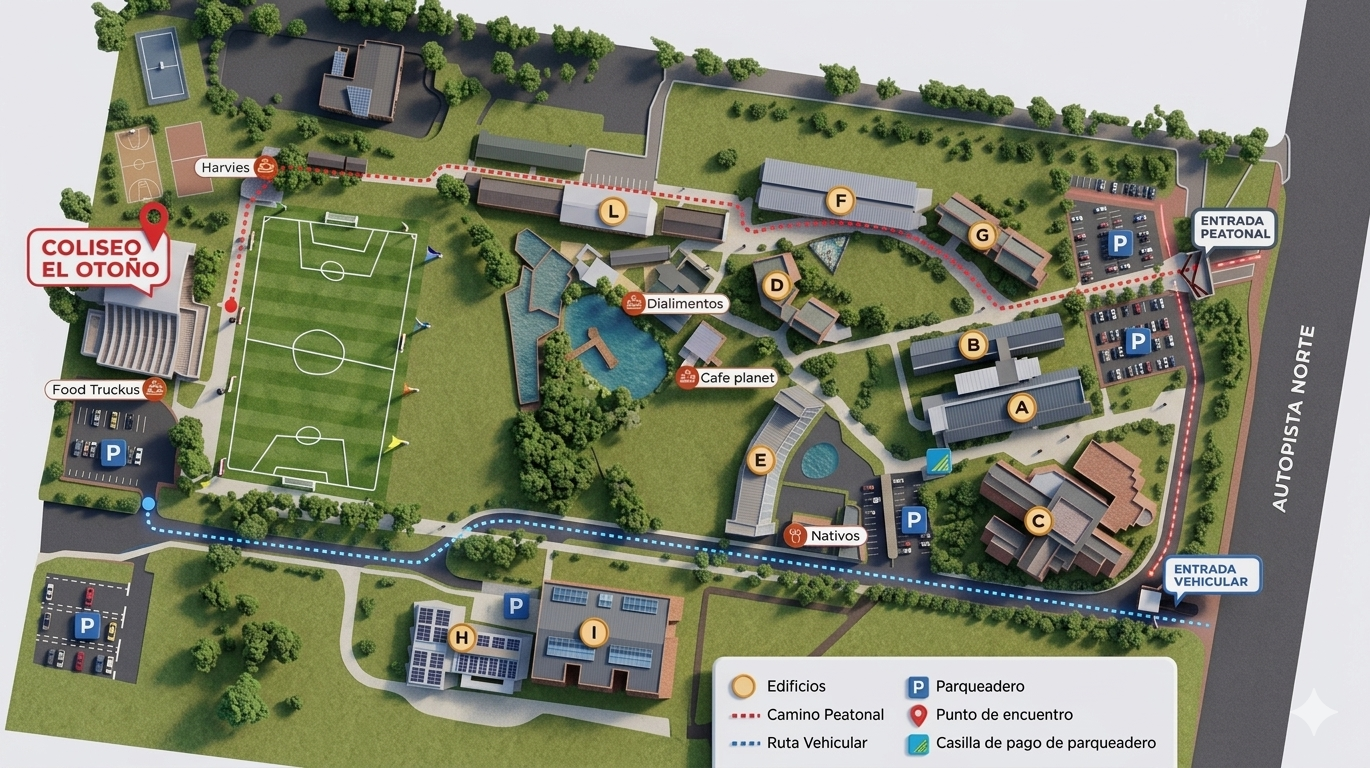
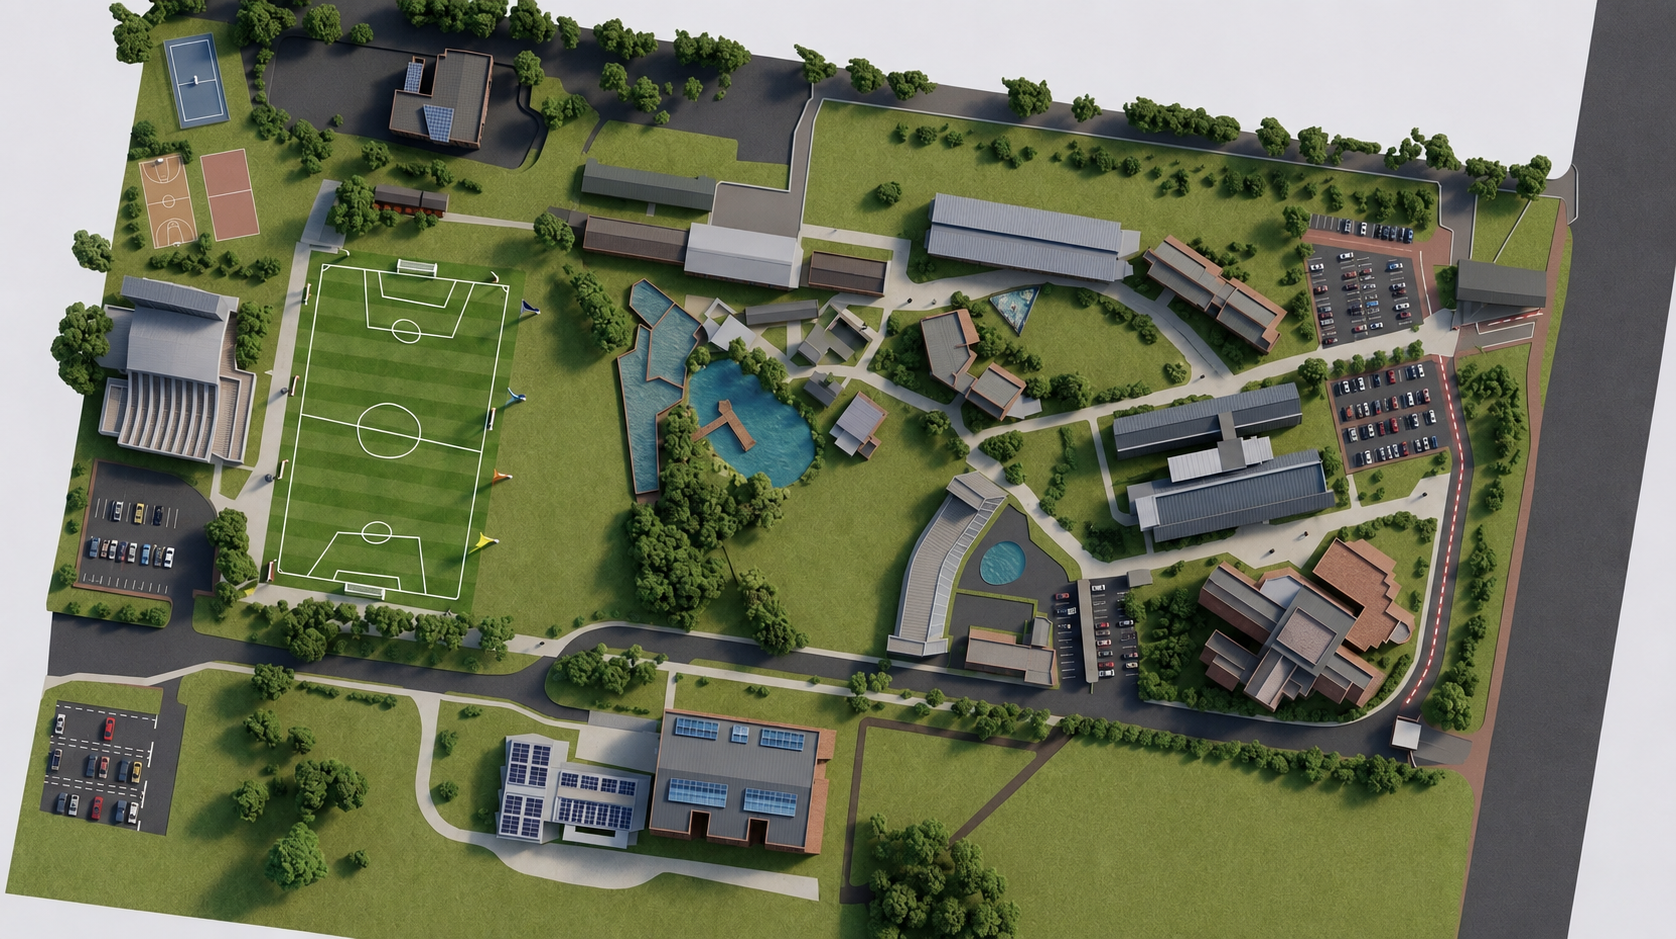
Cambio de imgane, color de edificios y ubicaion de edifiicos

Changed region(s): [[0.0, 0.0, 0.9504, 1.0], [0.2759, 0.9375, 0.3985, 1.0], [0.9504, 0.4375, 0.981, 0.4688]]

diff --git a/src/pages/CampusMapPage.tsx b/src/pages/CampusMapPage.tsx
@@ -66,7 +66,7 @@ function detectZone(mapX: number, mapY: number, landmarks: Landmark[]): string {
 const LANDMARKS: Landmark[] = [
   { id: 'bloque-a', name: 'Bloque A',           shortName: 'A',       x: 75, y: 46, Icon: Building2,      color: '#3B82F6', type: 'building' },
   { id: 'bloque-b', name: 'Bloque B',           shortName: 'B',       x: 70, y: 36, Icon: Building2,      color: '#3B82F6', type: 'building' },
-  { id: 'bloque-c', name: 'Bloque C',           shortName: 'C',       x: 72, y: 54, Icon: Building2,      color: '#3B82F6', type: 'building' },
+  { id: 'bloque-c', name: 'Bloque C',           shortName: 'C',       x: 76.9, y: 68.7, Icon: Building2,      color: '#3B82F6', type: 'building' },
   { id: 'bloque-d', name: 'Bloque D',           shortName: 'D',       x: 52, y: 28, Icon: GraduationCap,  color: '#6366F1', type: 'building' },
   { id: 'bloque-e', name: 'Bloque E',           shortName: 'E',       x: 56, y: 46, Icon: Wrench,         color: '#0EA5E9', type: 'building' },
   { id: 'bloque-f', name: 'Bloque F',           shortName: 'F',       x: 63, y: 18, Icon: Monitor,        color: '#8B5CF6', type: 'building' },
@@ -248,13 +248,8 @@ export function CampusMapPage() {
   const getEventsAt = useCallback((lmId: string) =>
     mappedEvents.filter(e => EVENT_LOCATION[e.id] === lmId), [mappedEvents]);
   const hasEvent = (lmId: string) => getEventsAt(lmId).length > 0;
-  const isVisible = (lm: Landmark) => {
-    if (activeFilter === 'all')   return true;
-    if (activeFilter === 'food')  return lm.type === 'food';
-    if (activeFilter === 'sport') return lm.type === 'sport';
-    if (activeFilter === 'event') return hasEvent(lm.id);
-    return true;
-  };
+  // Show only buildings on the map; color indicates active events
+  const isVisible = (lm: Landmark) => lm.type === 'building';
   const handlePin = (lm: Landmark) => {
     setSelectedLandmark(prev => prev?.id === lm.id ? null : lm);
     setEventsOpen(false);
@@ -401,6 +396,13 @@ export function CampusMapPage() {
           const hasEv  = evHere.length > 0;
           const isSel  = selectedLandmark?.id === lm.id;
           const { Icon } = lm;
+          // choose pin background based on whether building has active events
+          // If has event -> orange (GOLD_GRADIENT). If no event -> blue.
+          const DEFAULT_BLUE = '#3B82F6';
+          const pinBg = hasEv ? GOLD_GRADIENT : DEFAULT_BLUE;
+          const pinBorder = isSel ? 'white' : 'rgba(255,255,255,0.8)';
+          const labelColor = hasEv ? GOLD_LIGHT : DEFAULT_BLUE;
+
           return (
             <button
               key={lm.id}
@@ -423,8 +425,8 @@ export function CampusMapPage() {
                 whileTap={{ scale: 0.9 }}
                 style={{ display: 'flex', flexDirection: 'column', alignItems: 'center', gap: 1 }}
               >
-                {hasEv ? (
-                  <div style={{ position: 'relative' }}>
+                <div style={{ position: 'relative' }}>
+                  {hasEv && (
                     <motion.div
                       animate={{ scale: [1, 1.55, 1], opacity: [0.55, 0, 0.55] }}
                       transition={{ duration: 2.2, repeat: Infinity }}
@@ -436,55 +438,38 @@ export function CampusMapPage() {
                         zIndex: 0,
                       }}
                     />
-                    <div style={{
-                      width: isSel ? 36 : 30,
-                      height: isSel ? 36 : 30,
-                      borderRadius: '50% 50% 50% 0',
-                      transform: 'rotate(-45deg)',
-                      background: GOLD_GRADIENT,
-                      border: `2.5px solid ${isSel ? 'white' : 'rgba(255,255,255,0.8)'}`,
-                      boxShadow: `0 4px 14px rgba(217,119,6,0.65)`,
-                      display: 'flex', alignItems: 'center', justifyContent: 'center',
-                      transition: 'width .2s, height .2s',
-                      position: 'relative', zIndex: 1,
-                    }}>
-                      <div style={{ transform: 'rotate(45deg)' }}>
-                        <Icon size={isSel ? 15 : 12} color="white" strokeWidth={2.2} />
-                      </div>
-                    </div>
-                    {evHere.length > 1 && (
-                      <div style={{
-                        position: 'absolute', top: -7, right: -7, zIndex: 2,
-                        width: 16, height: 16, borderRadius: '50%',
-                        background: '#EF4444', border: '1.5px solid white',
-                        color: 'white', fontSize: 9, fontWeight: 900,
-                        display: 'flex', alignItems: 'center', justifyContent: 'center',
-                      }}>
-                        {evHere.length}
-                      </div>
-                    )}
-                  </div>
-                ) : (
+                  )}
                   <div style={{
-                    width: isSel ? 26 : 21,
-                    height: isSel ? 26 : 21,
+                    width: isSel ? 36 : (hasEv ? 30 : 24),
+                    height: isSel ? 36 : (hasEv ? 30 : 24),
                     borderRadius: '50% 50% 50% 0',
                     transform: 'rotate(-45deg)',
-                    background: lm.color,
-                    border: `2px solid ${isSel ? 'white' : 'rgba(255,255,255,0.65)'}`,
-                    boxShadow: `0 2px 8px ${lm.color}66`,
+                    background: pinBg,
+                    border: `2.5px solid ${pinBorder}`,
+                    boxShadow: hasEv ? `0 4px 14px rgba(217,119,6,0.65)` : '0 2px 8px rgba(0,0,0,0.08)',
                     display: 'flex', alignItems: 'center', justifyContent: 'center',
                     transition: 'width .2s, height .2s',
-                    opacity: activeFilter === 'event' ? 0.38 : 1,
+                    position: 'relative', zIndex: 1,
                   }}>
                     <div style={{ transform: 'rotate(45deg)' }}>
-                      <Icon size={isSel ? 11 : 9} color="white" strokeWidth={2.4} />
+                      <Icon size={isSel ? 15 : (hasEv ? 12 : 10)} color="white" strokeWidth={2.2} />
                     </div>
                   </div>
-                )}
+                  {hasEv && evHere.length > 1 && (
+                    <div style={{
+                      position: 'absolute', top: -7, right: -7, zIndex: 2,
+                      width: 16, height: 16, borderRadius: '50%',
+                      background: '#EF4444', border: '1.5px solid white',
+                      color: 'white', fontSize: 9, fontWeight: 900,
+                      display: 'flex', alignItems: 'center', justifyContent: 'center',
+                    }}>
+                      {evHere.length}
+                    </div>
+                  )}
+                </div>
                 <span style={{
                   fontSize: 8, fontWeight: 900,
-                  color: hasEv ? GOLD_LIGHT : (isDark ? '#E2E8F0' : '#1E293B'),
+                  color: labelColor,
                   textShadow: isDark
                     ? '0 1px 4px rgba(0,0,0,0.95), 0 0 8px rgba(0,0,0,0.8)'
                     : '0 1px 4px rgba(255,255,255,0.95), 0 0 8px rgba(255,255,255,0.8)',